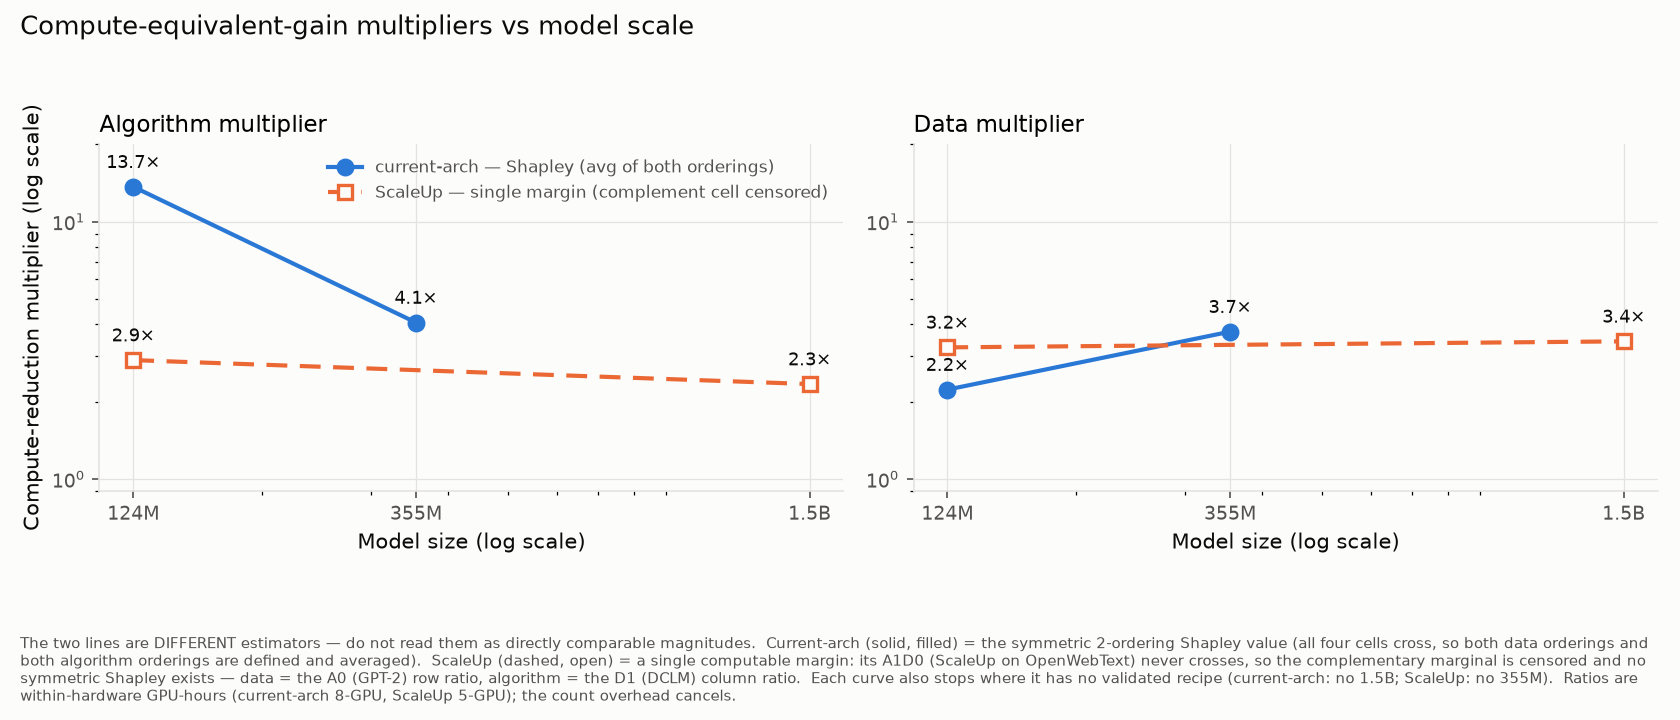
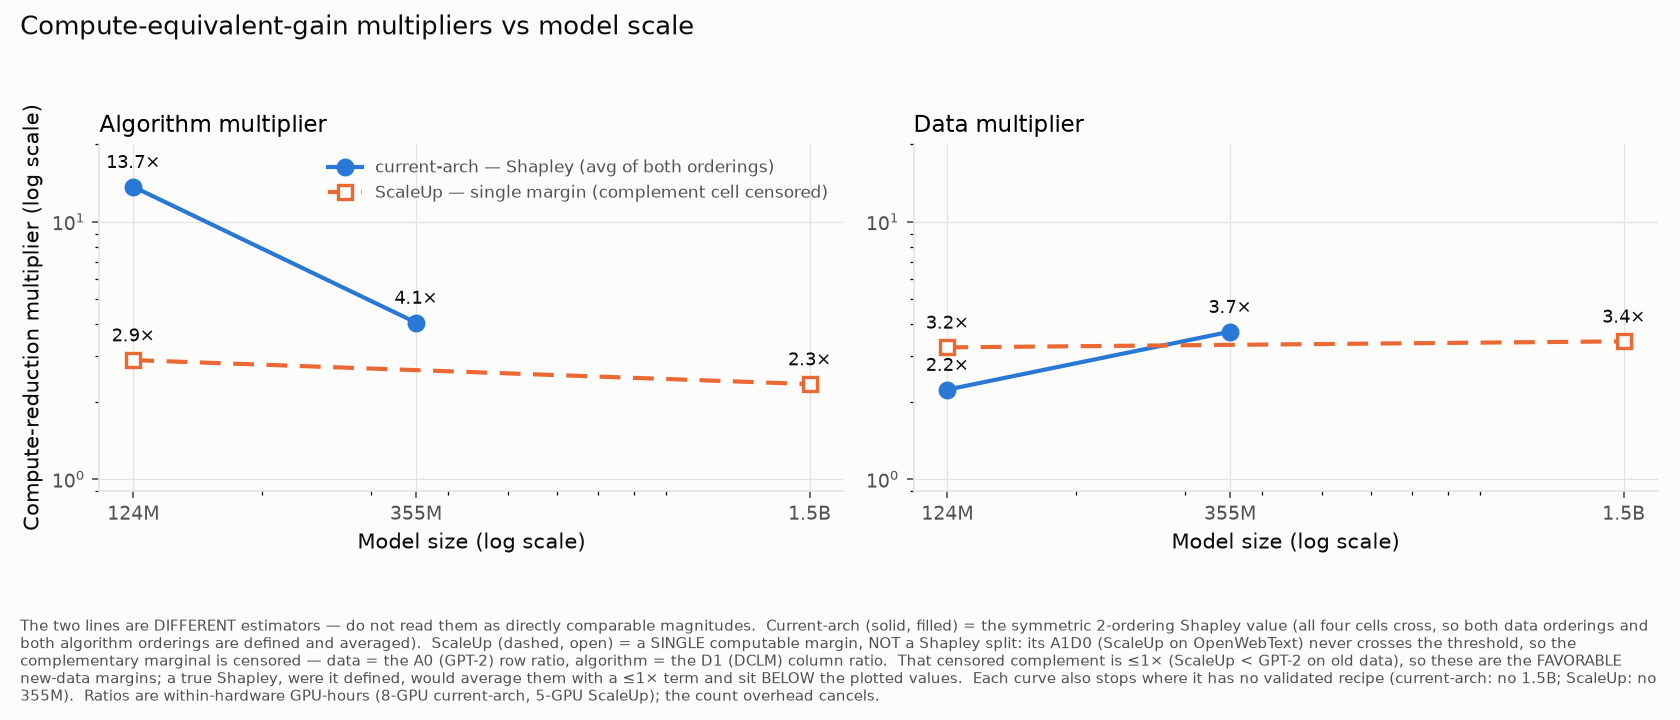
multipliers figure: strengthen ScaleUp caption for public use — state single-margin (not Shapley), censored complement <=1x, favorable new-data margin that a true Shapley would sit below

Changed region(s): [[0.0, 0.8556, 0.9905, 0.9778]]

diff --git a/analysis/plots.py b/analysis/plots.py
@@ -263,13 +263,17 @@ def multipliers_vs_scale(curves: dict, out_path):
             "directly comparable magnitudes.  Current-arch (solid, filled) = the "
             "symmetric 2-ordering Shapley value (all four cells cross, so both "
             "data orderings and both algorithm orderings are defined and "
-            "averaged).  ScaleUp (dashed, open) = a single computable margin: its "
-            "A1D0 (ScaleUp on OpenWebText) never crosses, so the complementary "
-            "marginal is censored and no symmetric Shapley exists — data = the A0 "
-            "(GPT-2) row ratio, algorithm = the D1 (DCLM) column ratio.  Each "
-            "curve also stops where it has no validated recipe (current-arch: no "
-            "1.5B; ScaleUp: no 355M).  Ratios are within-hardware GPU-hours "
-            "(current-arch 8-GPU, ScaleUp 5-GPU); the count overhead cancels.")
+            "averaged).  ScaleUp (dashed, open) = a SINGLE computable margin, NOT "
+            "a Shapley split: its A1D0 (ScaleUp on OpenWebText) never crosses the "
+            "threshold, so the complementary marginal is censored — data = the A0 "
+            "(GPT-2) row ratio, algorithm = the D1 (DCLM) column ratio.  That "
+            "censored complement is ≤1× (ScaleUp < GPT-2 on old data), so these "
+            "are the FAVORABLE new-data margins; a true Shapley, were it defined, "
+            "would average them with a ≤1× term and sit BELOW the plotted values. "
+            " Each curve also stops where it has no validated recipe (current-"
+            "arch: no 1.5B; ScaleUp: no 355M).  Ratios are within-hardware GPU-"
+            "hours (8-GPU current-arch, 5-GPU ScaleUp); the count overhead "
+            "cancels.")
     fig.text(0.012, 0.02, note, fontsize=7.0, color=INK2, va="bottom", wrap=True)
     fig.tight_layout(rect=(0, 0.20, 1, 0.94))
     fig.savefig(out_path, facecolor=SURFACE)
